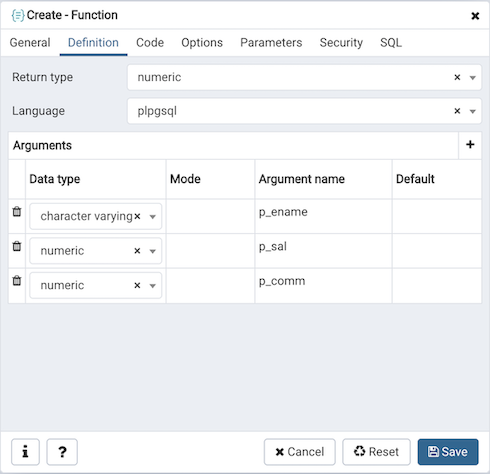
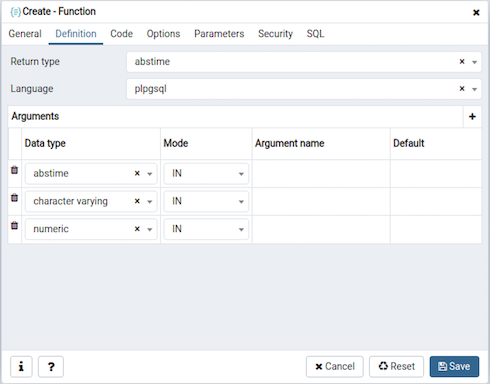
Fixed an issue where the Mode cell of argument grid does not appear completely in the Functions dialog. Fixes #5375

diff --git a/web/pgadmin/browser/server_groups/servers/databases/schemas/functions/static/js/function.js b/web/pgadmin/browser/server_groups/servers/databases/schemas/functions/static/js/function.js
@@ -58,6 +58,9 @@ define('pgadmin.node.function', [
     },{
       id: 'argmode', label: gettext('Mode'), type: 'options',
       control: 'node-ajax-options', cellHeaderClasses:'width_percent_20',
+      cell: 'node-ajax-options', select2: {
+        allowClear: false,
+      },
       options:[
         {'label': 'IN', 'value': 'IN'},
         {'label': 'OUT', 'value': 'OUT'},

diff --git a/docs/en_US/procedure_dialog.rst b/docs/en_US/procedure_dialog.rst
@@ -36,6 +36,21 @@ Use the fields in the *Definition* tab to define the procedure:
 
 * Use the drop-down listbox next to *Language* to select a language. The default
   is *edbspl*.
+* Use the fields in the *Arguments* section to define an argument. Click *Add* to set
+parameters and values for the argument:
+* Use the drop-down listbox next to *Data type* to select a data type.
+* Use the drop-down listbox next to *Mode* to select a mode. Select *IN* for an
+  input parameter; select *OUT* for an output parameter; select *INOUT* for both
+  an input and an output parameter; or, select *VARIADIC* to specify a VARIADIC
+  parameter.
+* Write a name for the argument in the *Argument Name* field.
+* Specify a default value for the argument in the *Default Value* field.
+
+Click *Add* to define another argument; to discard an argument, click the trash
+icon to the left of the row and confirm deletion in the *Delete Row* popup.
+
+Click the *Code* tab to continue.
+
 * Use the *Code* field to specify the code that will execute when the procedure
   is called.
 
@@ -72,26 +87,6 @@ procedure:
 * Move the *Leak proof?* switch to indicate whether the procedure has side
   effects — it reveals no information about its arguments other than by its
   return value. The default is *No*.
-
-Click the *Arguments* tab to continue.
-
-.. image:: images/procedure_arguments.png
-    :alt: Procedure dialog arguments tab
-    :align: center
-
-Use the fields in the *Arguments* tab to define an argument. Click *Add* to set
-parameters and values for the argument:
-
-* Use the drop-down listbox next to *Data type* to select a data type.
-* Use the drop-down listbox next to *Mode* to select a mode. Select *IN* for an
-  input parameter; select *OUT* for an output parameter; select *INOUT* for both
-  an input and an output parameter; or, select *VARIADIC* to specify a VARIADIC
-  parameter.
-* Write a name for the argument in the *Argument Name* field.
-* Specify a default value for the argument in the *Default Value* field.
-
-Click *Add* to define another argument; to discard an argument, click the trash
-icon to the left of the row and confirm deletion in the *Delete Row* popup.
 
 Click the *Parameters* tab to continue.
 

diff --git a/docs/en_US/release_notes_4_21.rst b/docs/en_US/release_notes_4_21.rst
@@ -56,5 +56,6 @@ Bug fixes
 | `Issue #5362 <https://redmine.postgresql.org/issues/5362>`_ -  Fixed an issue where the identical packages and sequences visible as different in the schema diff tool.
 | `Issue #5366 <https://redmine.postgresql.org/issues/5366>`_ -  Added alert message to Reset Layout if any of the panels from Query Tool failed to load.
 | `Issue #5371 <https://redmine.postgresql.org/issues/5371>`_ -  Fixed tab key navigation for some dialogs.
+| `Issue #5375 <https://redmine.postgresql.org/issues/5375>`_ -  Fixed an issue where the Mode cell of argument grid does not appear completely in the Functions dialog.
 | `Issue #5383 <https://redmine.postgresql.org/issues/5383>`_ -  Fixed syntax error while refreshing the existing synonyms.
 | `Issue #5387 <https://redmine.postgresql.org/issues/5387>`_ -  Fixed an issue where the mode is not shown in the properties dialog of functions/procedures if all the arguments are "IN" arguments.
